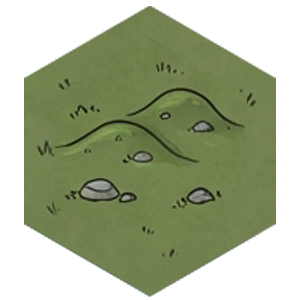
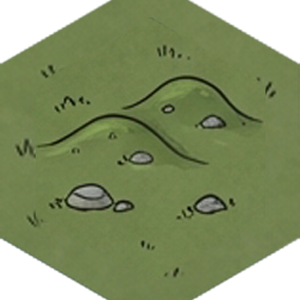
terrain patterns added. remove perspective test

diff --git a/index.html b/index.html
@@ -571,7 +571,7 @@
                 <option value="parchment">Пергамент</option>
               </select>
             </label>
-            <label style="grid-column: span 2;">Масштаб гексов: <input type="range" id="hexSizeRange" min="16" max="32" value="22"></label>
+            <label style="grid-column: span 2;">Масштаб гексов: <input type="range" id="hexSizeRange" min="16" max="32" value="32"></label>
             <label class="checkboxLabel" style="grid-column: span 2;">
               <input type="checkbox" id="gridToggleCheck" checked> Показать сетку
             </label>
@@ -803,33 +803,19 @@
     groups.capital = { default: ['assets/capital.png'] };
     groups.unit = { default: ['assets/unit.png'] };
 
-    // Переходы между соседними гексами ("автотайлинг"): для КАЖДОЙ пары
-    // (террейн этого гекса → террейн соседа) и КАЖДОГО из 6 направлений
-    // можно положить отдельную картинку — см. подробный комментарий у
-    // Game.Render.drawTerrain() ниже про то, как именно выбирается нужный
-    // файл и что означает "направление".
-    //
-    // Схема имени файла (ничего создавать заранее не нужно — то, чего нет,
-    // просто тихо пропускается, ничего не ломается):
-    //   assets/edge/<террейн>_<направление 0-5>.png                — общий
-    //     "край" этого террейна в эту сторону (на любой ДРУГОЙ террейн)
-    //   assets/edge/<террейн>_<террейн-соседа>_<направление 0-5>.png — art
-    //     именно для ЭТОЙ пары террейнов в эту сторону (перекрывает общий
-    //     вариант, если есть). Тот же приём работает и когда сосед —
-    //     террейн ТОГО ЖЕ типа (это и есть ваш пример "лес рядом с лесом") —
-    //     просто положите assets/edge/forest_forest_2.png, к примеру.
-    groups.edge = {};
-    const terrainKeys = Object.keys(TERRAIN).filter(k => k !== 'border');
-    terrainKeys.forEach(t1 => {
-      for (let dir = 0; dir < 6; dir++) {
-        groups.edge[`${t1}_${dir}`] = [`assets/edge/${t1}_${dir}.png`];
-      }
-      console.log(groups.edge)
-      terrainKeys.forEach(t2 => {
-        for (let dir = 0; dir < 6; dir++) {
-          groups.edge[`${t1}_${t2}_${dir}`] = [`assets/edge/${t1}_${t2}_${dir}.png`];
-        }
-      });
+    // Точные "паттерны соседей" для террейна — см. Game.Config.TERRAIN_PATTERN_FILES
+    // и подробное описание схемы имён прямо там, а сам подбор картинки —
+    // в Game.Render.drawTerrain()/terrainPatternKeyFor() ниже. В отличие от
+    // terrain/capital/unit это НЕ комбинаторный перебор путей (совпадений
+    // могло бы быть астрономически много) — грузится только то, что
+    // разработчик явно перечислил как существующий файл.
+    groups.pattern = {};
+    Game.Config.TERRAIN_PATTERN_FILES.forEach(filename => {
+      
+      const key = Game.Assets.patternKeyFromFilename(filename);
+      
+      groups.pattern[key] = groups.pattern[key] || [];
+      groups.pattern[key].push('assets/patterns/' + filename);
     });
 
     return groups;
@@ -864,12 +850,7 @@
           const img = new Image();
           img.onload = () => { Game.Assets.images[group][key][idx] = img; onSlotDone(); };
           img.onerror = () => {
-            // 'edge' — это сотни ЗАВЕДОМО опциональных комбинаций (см.
-            // manifest()); отсутствие конкретного файла — норма, а не
-            // ошибка, поэтому для этой категории в консоль не пишем.
-            if (group !== 'edge') {
-              console.warn(`Не удалось загрузить ассет [${group}/${key}]:`, src);
-            }
+            console.warn(`Не удалось загрузить ассет [${group}/${key}]:`, src);
             onSlotDone();
           };
           img.src = src;
@@ -883,10 +864,94 @@
   // террейна (Game.Config.terrainVariant), теперь общая для всех категорий.
   // Возвращает null, если для этого ключа ничего не загружено — вызывающий
   // код (drawCapital/drawUnit/drawTerrain) в этом случае рисует как раньше.
-  Game.Assets.variant = function variant(group, key, entity){
-    const arr = ((Game.Assets.images[group] || {})[key] || []).filter(Boolean);
-    if(!arr.length) return null;
-    return arr[Game.Utils.hashHexIndex(entity.q, entity.r, arr.length)];
+  Game.Assets.variant = function variant(group, key, entity) {
+      const imagesGroup = Game.Assets.images[group] || {};
+      
+      // 1. Проверяем точное совпадение
+      let arr = (imagesGroup[key] || []).filter(Boolean);
+      
+      // 2. Если точного нет, урезаем ключ по дефисам, игнорируя те, что внутри скобок [...]
+      if (!arr.length && key.includes('-')) {
+          // Регулярное выражение ищет дефис, за которым НЕ следует закрывающая скобка раньше открывающей
+          // Простой и надежный способ: разбиваем по дефисам, но собираем обратно то, что разорвалось внутри [...]
+          const rawParts = key.split('-');
+          const parts = [];
+          
+          let temp = '';
+          for (const part of rawParts) {
+              if (temp) {
+                  temp += '-' + part;
+              } else {
+                  temp = part;
+              }
+              
+              // Считаем баланс скобок, чтобы понять, закрылся ли блок [...]
+              const openCount = (temp.match(/\[/g) || []).length;
+              const closeCount = (temp.match(/\]/g) || []).length;
+              
+              if (openCount === closeCount) {
+                  parts.push(temp);
+                  temp = '';
+              }
+          }
+          if (temp) parts.push(temp);
+
+          // Поочередно отбрасываем правые сегменты
+          while (parts.length > 1) {
+              parts.pop();
+              const subKey = parts.join('-');
+              arr = (imagesGroup[subKey] || []).filter(Boolean);
+              if (arr.length) break;
+          }
+      }
+
+      if (!arr.length) return null;
+      
+      return arr[Game.Utils.hashHexIndex(entity.q, entity.r, arr.length)];
+  };
+
+  // --------------------------------------------------------------------------
+  // "Паттерны соседей" для террейна — точное совпадение картинки под
+  // конкретную раскладку соседних гексов вместо наложения кусков друг на
+  // друга (так каждая картинка полностью авторская и ничего не перекрывает).
+  //
+  // Схема имени файла:  <террейн>-<сосед1>[<направления через дефис>]-<сосед2>[...]-....png
+  // Пример: water-plains[1-2]-hills[0].png
+  //   — это гекс ВОДЫ (базовый террейн), у которого гексы РАВНИНЫ по сторонам
+  //   1 и 2, и гекс ХОЛМОВ по стороне 0. Направления — те же индексы 0..5,
+  //   что в Game.Config.DIRS (см. Game.Map.neighborAt). Соседей С ТАКИМ ЖЕ
+  //   террейном, как у самого гекса, в скобках указывать не нужно — гекс,
+  //   полностью окружённый тем же террейном, это и есть "базовая картинка"
+  //   (обычный Game.Config.terrainVariant, как и раньше).
+  //
+  // Порядок групп в имени файла не важен — при сравнении с реальным гексом
+  // паттерн приводится к канонической форме (группы сортируются по имени
+  // террейна). Файл ищется ТОЧНЫМ совпадением полного набора направлений;
+  // если у гекса чуть другая раскладка соседей — совпадения не будет, и
+  // отрисуется обычная базовая картинка террейна (см. Game.Render.drawTerrain).
+  Game.Assets.parsePatternName = function parsePatternName(nameNoExt){
+    const firstGroupAt = nameNoExt.search(/[a-zA-Zа-яА-Я0-9]+\[/);
+    const base = (firstGroupAt === -1 ? nameNoExt : nameNoExt.slice(0, firstGroupAt)).replace(/-+$/, '');
+    const groups = {};
+    const groupRe = /([a-zA-Zа-яА-Я0-9]+)\[([0-9]+(?:-[0-9]+)*)\]/g;
+    let m;
+    while((m = groupRe.exec(nameNoExt))){
+      groups[m[1]] = m[2].split('-').map(Number).sort((a,b)=>a-b);
+    }
+    return { base, groups };
+  };
+  // Каноническая строка-ключ из {base, groups} — одна и та же что для
+  // распарсенного имени файла, что для реального гекса на карте, так что их
+  // можно сравнивать напрямую строкой.
+  Game.Assets.patternKey = function patternKey(base, groups){
+    const terrainNames = Object.keys(groups).filter(t => groups[t].length).sort();
+    const parts = terrainNames.map(t => `${t}[${groups[t].slice().sort((a,b)=>a-b).join('-')}]`);
+    return base + (parts.length ? '-' + parts.join('-') : '');
+  };
+  Game.Assets.patternKeyFromFilename = function patternKeyFromFilename(filename){
+    const nameNoExt = filename.replace(/\.[a-zA-Z0-9]+$/, '');
+    const { base, groups } = Game.Assets.parsePatternName(nameNoExt);
+    return Game.Assets.patternKey(base, groups);
   };
 
   // ==========================================================================
@@ -897,7 +962,7 @@
     // Mutable, user-adjustable settings (each one bound to a control in the
     // settings panel — see Game.UI.initEvents()).
     settings: {
-      hexSize: 28,
+      hexSize: 32,
       showGrid: true,
       territoryFillMode: false,
       currentTheme: 'classic',
@@ -924,13 +989,30 @@
     // (терраин 'border' — см. terrainDefs()). Меняется прямо здесь.
     BORDER_THICKNESS: 2,
 
+    // Явный список файлов с картинками под конкретные раскладки соседей —
+    // см. подробное описание схемы имён у Game.Assets.parsePatternName()
+    // выше. Пополняется вручную по мере того, как появляется арт; чего нет
+    // в этом списке — не запрашивается вообще (никаких лишних 404).
+    // Пример: 'water-plains[1-2]-hills[0].png' — кладите сам файл в
+    // assets/patterns/.
+    TERRAIN_PATTERN_FILES: [
+      'water-plains[1-2].png',
+      'water-plains[0-1].png',
+      'water-forest[2]-plains[3].png',
+      'water-plains[2].png',
+      'water-plains[3].png',
+      'forest-forest[1-2].png',
+      'forest-forest[3-4].png',
+      'forest-forest[0-5].png'
+    ],
+
     // Camera limits.
     MIN_ZOOM: 0.35,
     MAX_ZOOM: 4.0,
 
     // Pseudo-3D perspective tuning (see Game.Render.projectFlat/perspectiveScale).
-    TILT_FACTOR: 0.9,
-    PERSPECTIVE_STRENGTH: 0.2,
+    TILT_FACTOR: 0.85,
+    PERSPECTIVE_STRENGTH: 0,
     get PERSPECTIVE_FAR_SCALE(){ return 1 - this.PERSPECTIVE_STRENGTH; },
 
     // Hex-grid axial direction vectors.
@@ -1987,71 +2069,57 @@
     Game.Render.staticCtx.save();
     Game.Render.hexPath(h, Game.Render.staticCtx, overflowTop);
     Game.Render.staticCtx.clip();
-    const PAD = 1.18;
+    const PAD = 1;
     const size = p.hexSize * 2 * PAD;
-    Game.Render.staticCtx.drawImage(img, p.x - size/2, p.y - size/2 - overflowTop, size, size + overflowTop);
+    Game.Render.staticCtx.drawImage(img, p.x - size/2+4, p.y - size*Game.Config.TILT_FACTOR/2 - overflowTop, size-8, size*Game.Config.TILT_FACTOR + overflowTop);
     Game.Render.staticCtx.restore();
+  };
+  // Раскладка соседей текущего гекса в виде {терраин_соседа: [направления]},
+  // БЕЗ соседей с тем же террейном, что у самого гекса (см. комментарий у
+  // Game.Assets.parsePatternName выше — "везде такой же террейн" это и есть
+  // обычная базовая картинка, отдельно её описывать не нужно). Дальше
+  // сравнивается строкой с уже загруженными паттернами через
+  // Game.Assets.patternKey — совпадение должно быть ТОЧНЫМ.
+  Game.Render.terrainPatternKeyFor = function terrainPatternKeyFor(h){
+    const groups = {};
+    for(let dir = 0; dir < 6; dir++){
+      const nb = Game.Map.neighborAt(h, dir);
+      if(!nb || nb.terrain === 'border') continue;
+      (groups[nb.terrain] = groups[nb.terrain] || []).push(dir);
+    }
+    return Game.Assets.patternKey(h.terrain, groups);
   };
   Game.Render.drawTerrain = function drawTerrain(h){
     const TERRAIN = Game.Config.terrainDefs();
     const terrainType = h.terrain;
     const def = TERRAIN[terrainType];
-    const variants = ((Game.Assets.images.terrain || {})[terrainType] || []).filter(Boolean);
+    const overflowTop = (def.artOverflowTop || 0) * Game.Render.pixelForHex(h).hexSize;
 
-    // Если для этого террейна загружены картинки — рисуем одну из них
-    // (вариант выбирается стабильно по координатам гекса, см. Game.Config.terrainVariant).
+    // 1) Точное совпадение по раскладке соседей (авторская картинка на
+    //    конкретное сочетание) — если такое зарегистрировано и загрузилось.
+    const patternKey = terrainType !== 'border' ? Game.Render.terrainPatternKeyFor(h) : null;
+    const patternImg = patternKey ? Game.Assets.variant('pattern', patternKey, h) : null;
+    if (patternImg) {
+      Game.Render.drawHexImage(h, patternImg, overflowTop);
+      return;
+    }
+
+    // 2) По умолчанию — обычная картинка террейна (вариант выбирается
+    //    стабильно по координатам гекса, см. Game.Config.terrainVariant).
+    const variants = ((Game.Assets.images.terrain || {})[terrainType] || []).filter(Boolean);
     if (variants.length) {
       const img = Game.Config.terrainVariant(h, variants);
 
-      // Насколько верх картинки может вылезти за пределы гекса вверх (в пикселях,
-      // с учётом перспективного размера ИМЕННО этого гекса — p.hexSize).
-      //
-      // Саму картинку рисуем увеличенной и сдвинутой вверх на overflowTop, чтобы то,
-      // что нарисовано в её верхней части (вершина горы, кроны леса), физически
-      // оказалось выше границы гекса и легло поверх верхнего соседа — отсюда и
-      // ощущение глубины. Порядок отрисовки по рядам (см. Game.Render.hexesByDepth() и
-      // Game.Render.updateStaticLayer()) гарантирует, что дальний сосед уже нарисован и корректно
-      // перекрывается.
-      Game.Render.drawHexImage(h, img, (def.artOverflowTop || 0) * Game.Render.pixelForHex(h).hexSize);
+      // Насколько верх картинки может вылезти за пределы гекса вверх — см.
+      // подробности в комментарии выше про overflowTop/hexPath (тот же
+      // приём, что и для патернов: рисуем крупнее и сдвигаем вверх, чтобы
+      // вершины/кроны легли поверх верхнего соседа).
+      Game.Render.drawHexImage(h, img, overflowTop);
     } else {
-      // Запасной вариант со сплошным цветом, если картинки нет
+      // 3) Совсем запасной вариант со сплошным цветом, если картинки нет вообще
       Game.Render.hexPath(h, Game.Render.staticCtx);
       Game.Render.staticCtx.fillStyle = Game.Config.settings.territoryFillMode ? Game.Render.territoryColor(h, def.color) : def.color;
       Game.Render.staticCtx.fill();
-    }
-
-    Game.Render.drawTerrainEdges(h);
-  };
-  // Переходы между соседними гексами ("автотайлинг" по террейну соседа).
-  //
-  // Для каждого из 6 направлений (индекс соответствует Game.Config.DIRS —
-  // тому же порядку, в котором Game.Map.neighborAt(h, dir) достаёт соседа)
-  // смотрим на террейн соседа и ищем подходящую картинку в Game.Assets,
-  // группа 'edge' (см. полное описание схемы имён в Game.Assets.manifest()):
-  //   1) сначала САМЫЙ конкретный вариант — именно для этой пары террейнов
-  //      именно в эту сторону (работает и когда сосед — ТОТ ЖЕ террейн, это
-  //      и есть механизм "лес рядом с лесом выглядит иначе, чем лес у моря");
-  //   2) если его нет и сосед — ДРУГОЙ террейн — общий "край" этого террейна
-  //      в эту сторону (не завязан на то, что именно по соседству).
-  // Если для этого гекса вообще ничего не загружено — просто ничего не
-  // рисуется, никакой ошибки. Каждый найденный оверлей накладывается поверх
-  // уже нарисованной базовой картинки, поэтому направлений с разными
-  // соседями может быть сразу несколько — они складываются естественным
-  // образом, без комбинаторного взрыва готовых картинок "на все случаи".
-  Game.Render.drawTerrainEdges = function drawTerrainEdges(h){
-    if(h.terrain === 'border') return;
-    const TERRAIN = Game.Config.terrainDefs();
-    const def = TERRAIN[h.terrain];
-    const overflowTop = (def.artOverflowTop || 0) * Game.Render.pixelForHex(h).hexSize;
-
-    for(let dir = 0; dir < 6; dir++){
-      const nb = Game.Map.neighborAt(h, dir);
-      if(!nb || nb.terrain === 'border') continue;
-
-      const specific = Game.Assets.variant('edge', `${h.terrain}_${nb.terrain}_${dir}`, h);
-      const generic = nb.terrain !== h.terrain ? Game.Assets.variant('edge', `${h.terrain}_${dir}`, h) : null;
-      const img = specific || generic;
-      if(img) Game.Render.drawHexImage(h, img, overflowTop);
     }
   };
   Game.Render.drawRegionHighlight = function drawRegionHighlight(h) {
@@ -2190,7 +2258,7 @@
       corners.push(Game.Render.corner(h, i));
     }
 
-    Game.Render.ctx.lineWidth = 6 * Game.Render.camera.zoom;
+    Game.Render.ctx.lineWidth = 4 * Game.Render.camera.zoom;
     Game.Render.ctx.strokeStyle = color;
     Game.Render.ctx.lineCap = 'square'; 
     Game.Render.ctx.beginPath();
@@ -2461,7 +2529,7 @@
   };
   Game.Render.drawFog = function drawFog(h){
     Game.Render.hexPath(h, Game.Render.ctx);
-    Game.Render.ctx.fillStyle = 'rgba(4, 6, 4, 0.62)';
+    Game.Render.ctx.fillStyle = 'rgba(4, 6, 4, 0.22)';
     Game.Render.ctx.fill();
   };
   Game.Render.draw = function draw(){
@@ -2491,12 +2559,7 @@
       if (h.occupiedBy !== null) Game.Render.drawSiegeHatch(h);
     });
 
-    // Layer fog: затемняем всё, что вне тумана войны — поверх границ/штриховки,
-    // но под юнитами (юниты там всё равно не рисуются, см. Layer 2).
-    depthOrder.forEach(h=>{
-      if(!visible.has(Game.Utils.key(h.q, h.r))) Game.Render.drawFog(h);
-    });
-
+    
     //Layer 1
     const hh = Game.Render.hoveredHex;
     const sh = Game.State.match.selected;
@@ -2516,6 +2579,12 @@
       if (h.unit) Game.Render.drawUnit(h);
       if(h.capital) Game.Render.drawCapital(h);
     });
+    // Layer fog: затемняем всё, что вне тумана войны — поверх границ/штриховки,
+    // но под юнитами (юниты там всё равно не рисуются, см. Layer 2).
+    depthOrder.forEach(h=>{
+      if(!visible.has(Game.Utils.key(h.q, h.r))) Game.Render.drawFog(h);
+    });
+
 
     Game.Render.drawFlyingUnits();
     Game.Render.drawDestroyingUnits();
